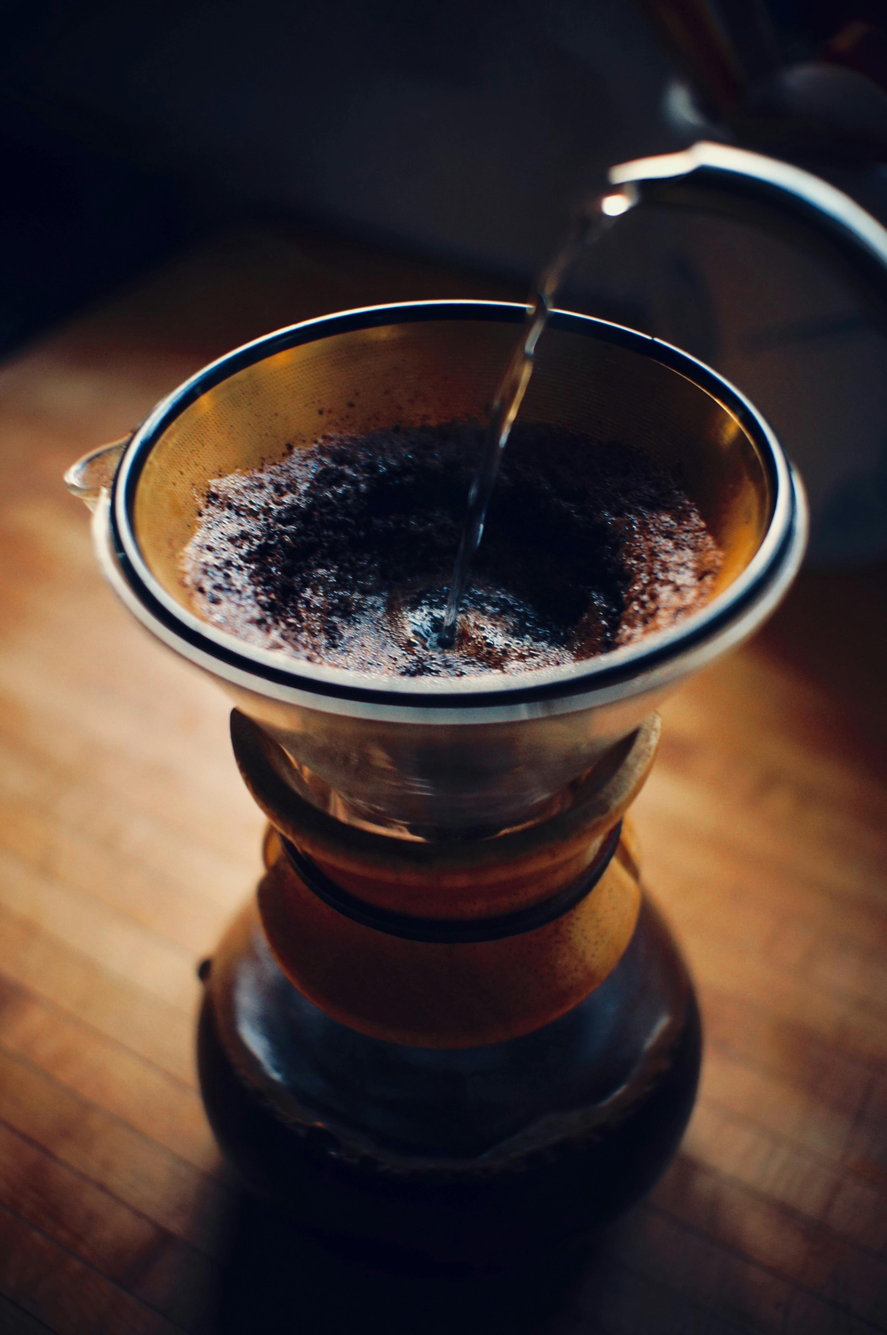
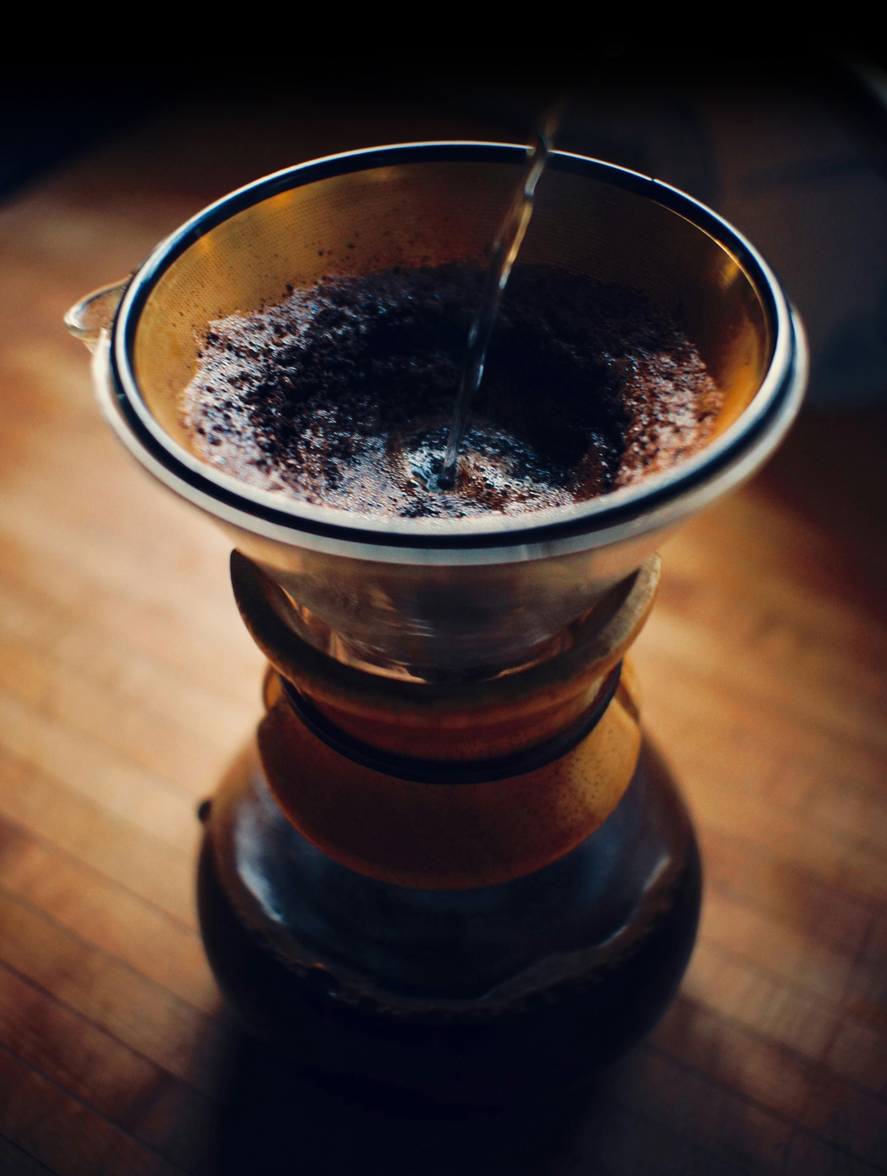
added landing page animation

diff --git a/client/src/pages/Landing.tsx b/client/src/pages/Landing.tsx
@@ -1,3 +1,4 @@
+import { useEffect, useRef } from 'react';
 import { Row, Col, Container } from 'react-bootstrap';
 // import { useQuery } from '@apollo/client';
 
@@ -6,6 +7,20 @@ import { Row, Col, Container } from 'react-bootstrap';
 
 function Landing() {
   // const { data: coffeeData } = useQuery(GET_ALL_COFFEES);
+
+  const aboutDiv = useRef<HTMLDivElement>(null);
+
+  useEffect(() => {
+    window.addEventListener('scroll', () => {
+      if (aboutDiv.current) {
+        const aboutDivTop = aboutDiv.current.getBoundingClientRect().top;
+        if (aboutDivTop < window.innerHeight) {
+          aboutDiv.current.style.opacity = '1';
+          aboutDiv.current.style.transform = 'translateX(0)';
+        }
+      }
+    });
+  }, []);
 
   return (
     <Container fluid={true}>
@@ -22,9 +37,9 @@ function Landing() {
         <div className='landing-section'>
           <div className="side-flex">
             <div className="search-recipes">
-            <button className="landing-btn">
-              <a href="/coffee-info" className="white-text"><h4>SEARCH RECIPES</h4></a>
-            </button>
+              <button className="landing-btn">
+                <a href="/coffee-info" className="white-text"><h4>SEARCH RECIPES</h4></a>
+              </button>
             </div>
             {/* <h3>GET BREWING</h3>
             <a href="/" className="white-text landing-link">SEARCH RECIPES</a> */}
@@ -37,7 +52,7 @@ function Landing() {
 
       <Row className="center-content">
         <Col className="landing-section">
-          <div className="about-img">
+          <div className="about-img" ref={aboutDiv}>
             <button className="landing-btn">
               <a href="/about" className="white-text"><h4>ABOUT US</h4></a>
             </button>

diff --git a/client/src/index.css b/client/src/index.css
@@ -160,11 +160,17 @@ nav a:hover:not(.navbar-brand) {
 }
 
 .about-img {
-  background-image: url('images/coffee_pour_2.jpg');
+  background-image: url('images/coffee_pour_3.jpg');
   background-size: cover;
-  background-position: center;
-  min-height: 600px;
+  background-position: top;
+  min-height: 900px;
   position: relative;
+  opacity: 0;
+  transition: opacity 1s;
+}
+
+.about-img.show {
+  opacity: 1;
 }
 
 .about-img .landing-btn {
@@ -172,18 +178,19 @@ nav a:hover:not(.navbar-brand) {
   margin: 0;
   padding: 25px 40px 18px 40px;
   position: absolute;
-  top: 35%;
+  top: 65%;
   right: 50%;
   -ms-transform: translateX(50%);
   transform: translateX(50%);
 }
 
 .about-img .landing-btn:hover {
-  background-color: #1e0909;
+  background-color: #270505dc;
+  transition: background-color .5s;
   margin: 0;
   padding: 25px 40px 18px 40px;
   position: absolute;
-  top: 35%;
+  top: 65%;
   right: 50%;
   -ms-transform: translateX(50%);
   transform: translateX(50%);
@@ -206,15 +213,13 @@ nav a:hover:not(.navbar-brand) {
   padding: 15px 30px 10px 30px;
   border: 1px solid #eee;
   border-radius: 10px;
-  background-color: #1e0909;
+  background-color: #270505dc;
+  transition: background-color .5s;
   color: #bebebe;
   font-style: italic;
 }
 
 .search-recipes {
-  /* -------------------------------------------- */
-  /* MAKE THIS STOP GETTING BIGGER AT 1350PX WIDE */
-  /* -------------------------------------------- */
   background-image: url(/images/grinder_1.jpg);
   background-size: cover;
   background-position: center;
@@ -233,7 +238,7 @@ nav a:hover:not(.navbar-brand) {
 
 .landing-section {
   background-color: black;
-  padding: 100px 0 0 0;
+  padding: 140px 0 0 0 !important;
   display: flex;
   flex-direction: column;
 }

diff --git a/client/src/components/Footer.tsx b/client/src/components/Footer.tsx
@@ -8,7 +8,6 @@ function Footer() {
       <Container className="d-flex justify-content-between py-5">
         <p>Copyright &copy; {date.getFullYear()} <br></br><br></br> CONTACT US: <br></br>123.456.7890 <br></br>email@email.com</p>
 
-        <h1><br></br>JavaJournal</h1>
 
         <p>DEV & DESIGN BY: <br></br>Mike Caiati <br></br>Izzy Figueroa <br></br>Nina DeLucia </p>
       </Container>
